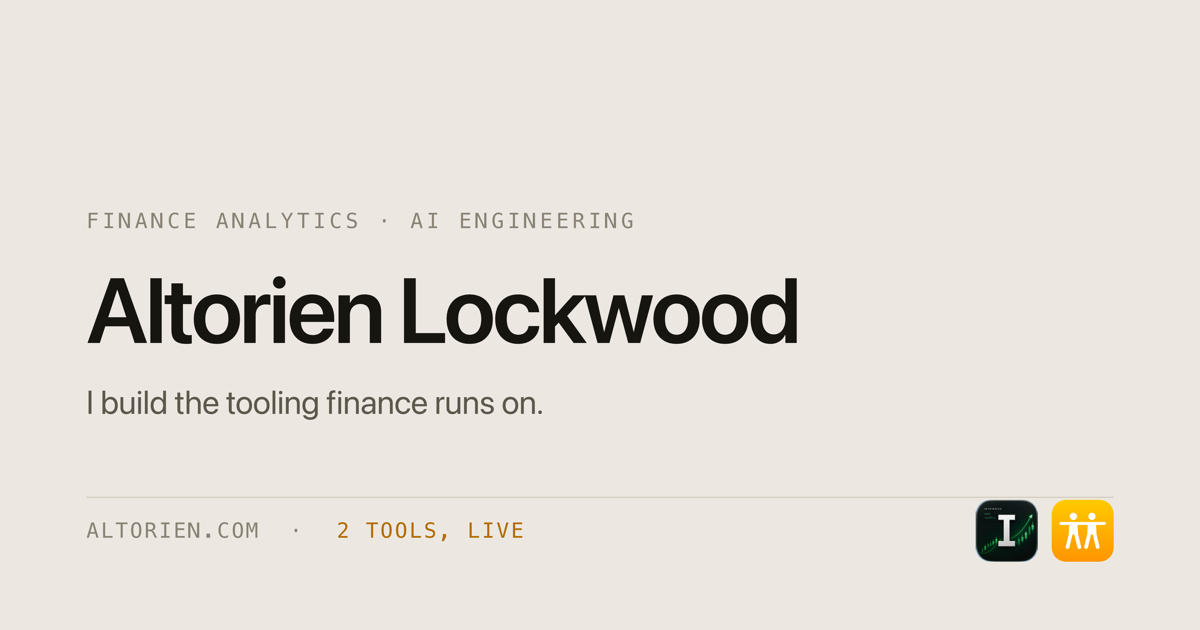
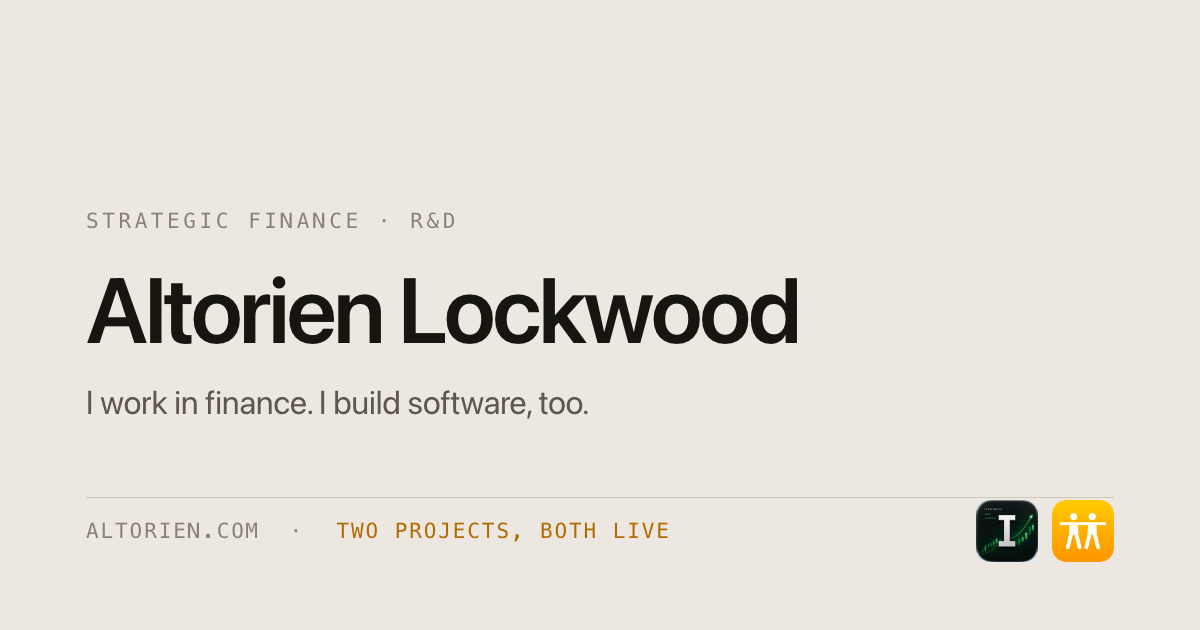
Carry the new copy into the share card and the metadata
The page was updated and the link preview was not, so pasting altorien.com
into Slack still produced "I build the tooling finance runs on" -- three
times over, in og:description, og:image:alt and the meta description, and a
fourth time drawn into og.png itself. That preview is the first thing a
former colleague sees, which is exactly the audience this pass was for.

The card's own two lines were stale in the same way: a kicker reading
"Finance Analytics - AI Engineering", the inflated framing just removed from
under his name on the resume, and a footer counting "2 tools, live" against
a page that now says two independent projects.

tools/og.js is self-contained now. It required a CDP driver from /tmp, which
is scratch space: the script worked on the one machine where that file
happened to exist and would not have survived a reboot, never mind the new
laptop. Chrome's own --screenshot does the same job with nothing to install,
and the card is rendered at a true 1200x630 rather than at 2x, which is what
the og:image:width and :height tags have always declared.

diff --git a/tools/og.js b/tools/og.js
@@ -3,20 +3,42 @@
  * Headless render rather than a hand-drawn image, so the card uses the same
  * tokens and type as the site and cannot drift from it. Run after changing
  * the template:  node tools/og.js
+ *
+ * Self-contained on purpose. This used to require a CDP driver from /tmp,
+ * which is a scratch directory: the script worked on the machine where that
+ * file happened to exist and nowhere else, and it would not have survived a
+ * reboot, never mind a new laptop. Chrome's own --screenshot does the same
+ * job with nothing to install.
  */
-const { launch, Page } = require('/tmp/cdp.js');
+const { execFileSync } = require('child_process');
 const path = require('path'), fs = require('fs');
-(async () => {
-  await launch();
-  const p = await Page.open('about:blank');
-  await p.send('Emulation.setDeviceMetricsOverride',
-    { width: 1200, height: 630, deviceScaleFactor: 2, mobile: false });
-  await p.goto('file://' + path.join(__dirname, 'og-template.html'));
-  await new Promise(r => setTimeout(r, 900));
-  const r = await p.send('Page.captureScreenshot',
-    { format: 'png', clip: { x: 0, y: 0, width: 1200, height: 630, scale: 2 } });
-  const out = path.join(__dirname, '..', 'public', 'og.png');
-  fs.writeFileSync(out, Buffer.from(r.data, 'base64'));
-  console.log('og.png ' + (fs.statSync(out).size / 1024).toFixed(0) + 'KB');
-  process.exit(0);
-})().catch(e => { console.error('ERR', e.message); process.exit(1); });
+
+const CHROME = [
+  '/Applications/Google Chrome.app/Contents/MacOS/Google Chrome',
+  '/Applications/Chromium.app/Contents/MacOS/Chromium',
+  '/usr/bin/google-chrome', '/usr/bin/chromium',
+].find(p => fs.existsSync(p));
+
+if (!CHROME) {
+  console.error('No Chrome found. Install Google Chrome, or point CHROME at a binary.');
+  process.exit(1);
+}
+
+const tpl = path.join(__dirname, 'og-template.html');
+const out = path.join(__dirname, '..', 'public', 'og.png');
+
+execFileSync(CHROME, [
+  '--headless', '--disable-gpu', '--no-sandbox', '--hide-scrollbars',
+  /* The card is a fixed 1200x630 surface, so the window IS the artboard and
+     there is nothing to crop. Scale factor 1: these dimensions are what the
+     og:image:width and :height tags declare, and an unfurler that fetches
+     four times the pixels it renders is just slower. */
+  '--force-device-scale-factor=1',
+  '--window-size=1200,630',
+  '--screenshot=' + out,
+  '--virtual-time-budget=4000',
+  'file://' + tpl,
+], { stdio: 'ignore' });
+
+const { size } = fs.statSync(out);
+console.log('public/og.png  ' + Math.round(size / 1024) + ' KB');

diff --git a/index.html b/index.html
@@ -4,11 +4,11 @@
 <meta charset="utf-8">
 <meta name="viewport" content="width=device-width, initial-scale=1, viewport-fit=cover">
 <title>Altorien Lockwood</title>
-<meta name="description" content="Finance analyst who builds the tooling finance runs on. Strategic finance, AI engineering, and two shipped tools.">
+<meta name="description" content="Altorien Lockwood — strategic finance in San Francisco. Two independent software projects, both live.">
 <meta name="theme-color" content="#ece8e1">
 <meta name="color-scheme" content="light">
 <meta property="og:title" content="Altorien Lockwood">
-<meta property="og:description" content="I build the tooling finance runs on.">
+<meta property="og:description" content="I work in finance. I build software, too.">
 <meta property="og:url" content="https://altorien.com/">
 <meta property="og:type" content="website">
 <meta property="og:site_name" content="Altorien Lockwood">
@@ -19,7 +19,7 @@
 <meta property="og:image" content="https://altorien.com/og.png">
 <meta property="og:image:width" content="1200">
 <meta property="og:image:height" content="630">
-<meta property="og:image:alt" content="Altorien Lockwood — I build the tooling finance runs on.">
+<meta property="og:image:alt" content="Altorien Lockwood — I work in finance. I build software, too.">
 <meta name="twitter:card" content="summary_large_image">
 <meta name="twitter:image" content="https://altorien.com/og.png">
 <link rel="canonical" href="https://altorien.com/">

diff --git a/public/index.html b/public/index.html
@@ -4,11 +4,11 @@
 <meta charset="utf-8">
 <meta name="viewport" content="width=device-width, initial-scale=1, viewport-fit=cover">
 <title>Altorien Lockwood</title>
-<meta name="description" content="Finance analyst who builds the tooling finance runs on. Strategic finance, AI engineering, and two shipped tools.">
+<meta name="description" content="Altorien Lockwood — strategic finance in San Francisco. Two independent software projects, both live.">
 <meta name="theme-color" content="#ece8e1">
 <meta name="color-scheme" content="light">
 <meta property="og:title" content="Altorien Lockwood">
-<meta property="og:description" content="I build the tooling finance runs on.">
+<meta property="og:description" content="I work in finance. I build software, too.">
 <meta property="og:url" content="https://altorien.com/">
 <meta property="og:type" content="website">
 <meta property="og:site_name" content="Altorien Lockwood">
@@ -19,7 +19,7 @@
 <meta property="og:image" content="https://altorien.com/og.png">
 <meta property="og:image:width" content="1200">
 <meta property="og:image:height" content="630">
-<meta property="og:image:alt" content="Altorien Lockwood — I build the tooling finance runs on.">
+<meta property="og:image:alt" content="Altorien Lockwood — I work in finance. I build software, too.">
 <meta name="twitter:card" content="summary_large_image">
 <meta name="twitter:image" content="https://altorien.com/og.png">
 <link rel="canonical" href="https://altorien.com/">

diff --git a/public/lander/index.html b/public/lander/index.html
@@ -4,11 +4,11 @@
 <meta charset="utf-8">
 <meta name="viewport" content="width=device-width, initial-scale=1, viewport-fit=cover">
 <title>Altorien Lockwood</title>
-<meta name="description" content="Finance analyst who builds the tooling finance runs on. Strategic finance, AI engineering, and two shipped tools.">
+<meta name="description" content="Altorien Lockwood — strategic finance in San Francisco. Two independent software projects, both live.">
 <meta name="theme-color" content="#ece8e1">
 <meta name="color-scheme" content="light">
 <meta property="og:title" content="Altorien Lockwood">
-<meta property="og:description" content="I build the tooling finance runs on.">
+<meta property="og:description" content="I work in finance. I build software, too.">
 <meta property="og:url" content="https://altorien.com/">
 <meta property="og:type" content="website">
 <meta property="og:site_name" content="Altorien Lockwood">
@@ -19,7 +19,7 @@
 <meta property="og:image" content="https://altorien.com/og.png">
 <meta property="og:image:width" content="1200">
 <meta property="og:image:height" content="630">
-<meta property="og:image:alt" content="Altorien Lockwood — I build the tooling finance runs on.">
+<meta property="og:image:alt" content="Altorien Lockwood — I work in finance. I build software, too.">
 <meta name="twitter:card" content="summary_large_image">
 <meta name="twitter:image" content="https://altorien.com/og.png">
 <link rel="canonical" href="https://altorien.com/">

diff --git a/public/resume.html b/public/resume.html
@@ -4,7 +4,7 @@
 <meta charset="utf-8">
 <meta name="viewport" content="width=device-width, initial-scale=1, viewport-fit=cover">
 <title>Resume &middot; Altorien Lockwood</title>
-<meta name="description" content="Altorien Lockwood — Strategic Finance Senior Associate at Rippling. Finance analytics and AI engineering.">
+<meta name="description" content="Altorien Lockwood — Strategic Finance Senior Associate at Rippling. Previously Indeed, Edrington, Lendlease.">
 <meta name="theme-color" content="#ece8e1">
 <meta name="color-scheme" content="light">
 <meta property="og:title" content="Resume · Altorien Lockwood">
@@ -19,7 +19,7 @@
 <meta property="og:image" content="https://altorien.com/og.png">
 <meta property="og:image:width" content="1200">
 <meta property="og:image:height" content="630">
-<meta property="og:image:alt" content="Altorien Lockwood — I build the tooling finance runs on.">
+<meta property="og:image:alt" content="Altorien Lockwood — I work in finance. I build software, too.">
 <meta name="twitter:card" content="summary_large_image">
 <meta name="twitter:image" content="https://altorien.com/og.png">
 <link rel="canonical" href="https://altorien.com/resume">

diff --git a/resume.html b/resume.html
@@ -4,7 +4,7 @@
 <meta charset="utf-8">
 <meta name="viewport" content="width=device-width, initial-scale=1, viewport-fit=cover">
 <title>Resume &middot; Altorien Lockwood</title>
-<meta name="description" content="Altorien Lockwood — Strategic Finance Senior Associate at Rippling. Finance analytics and AI engineering.">
+<meta name="description" content="Altorien Lockwood — Strategic Finance Senior Associate at Rippling. Previously Indeed, Edrington, Lendlease.">
 <meta name="theme-color" content="#ece8e1">
 <meta name="color-scheme" content="light">
 <meta property="og:title" content="Resume · Altorien Lockwood">
@@ -19,7 +19,7 @@
 <meta property="og:image" content="https://altorien.com/og.png">
 <meta property="og:image:width" content="1200">
 <meta property="og:image:height" content="630">
-<meta property="og:image:alt" content="Altorien Lockwood — I build the tooling finance runs on.">
+<meta property="og:image:alt" content="Altorien Lockwood — I work in finance. I build software, too.">
 <meta name="twitter:card" content="summary_large_image">
 <meta name="twitter:image" content="https://altorien.com/og.png">
 <link rel="canonical" href="https://altorien.com/resume">

diff --git a/tools/og-template.html b/tools/og-template.html
@@ -31,12 +31,12 @@ h1 { font-size:92px; font-weight:600; letter-spacing:-.03em; line-height:1.03; }
 .icons { margin-left:auto; display:flex; gap:14px; }
 .icons img { width:62px; height:62px; border-radius:14px; display:block; }
 </style></head><body>
-  <div class="kicker">Finance Analytics &middot; AI Engineering</div>
+  <div class="kicker">Strategic Finance &middot; R&amp;D</div>
   <h1>Altorien Lockwood</h1>
-  <div class="sub">I build the tooling finance runs on.</div>
+  <div class="sub">I work in finance. I build software, too.</div>
   <div class="rule"></div>
   <div class="foot">
-    altorien.com &nbsp;&middot;&nbsp; <b>2 tools, live</b>
+    altorien.com &nbsp;&middot;&nbsp; <b>Two projects, both live</b>
     <span class="icons">
       <img src="../public/icon-intrinsics.png">
       <img src="../public/icon-fwf.png">
